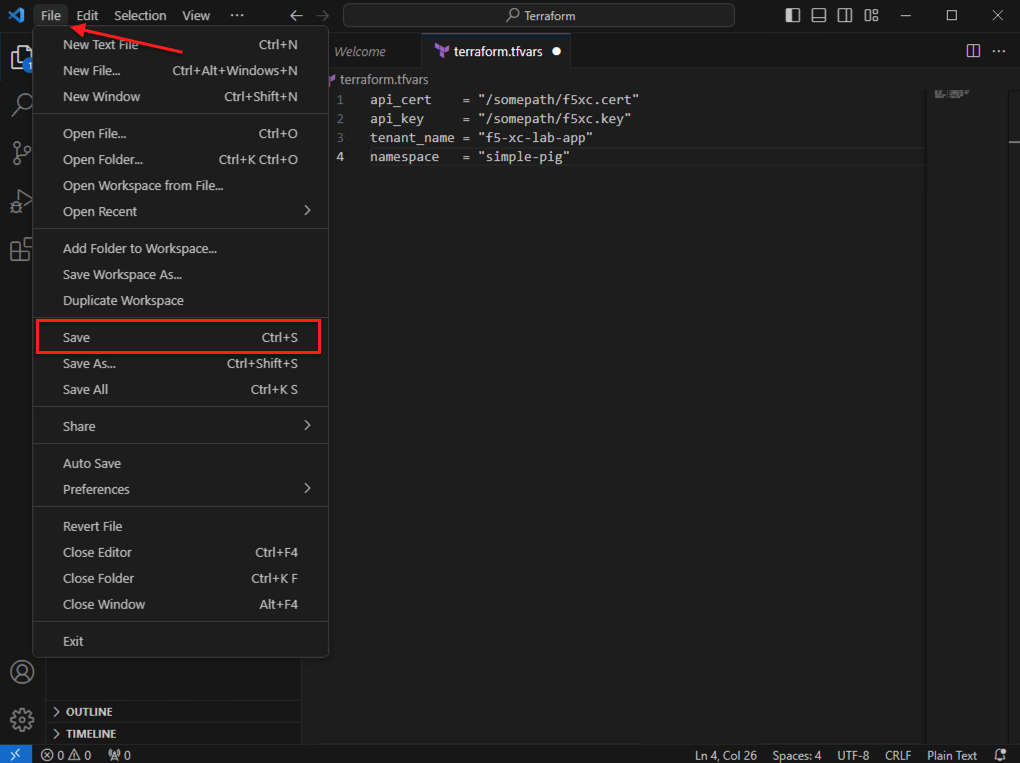
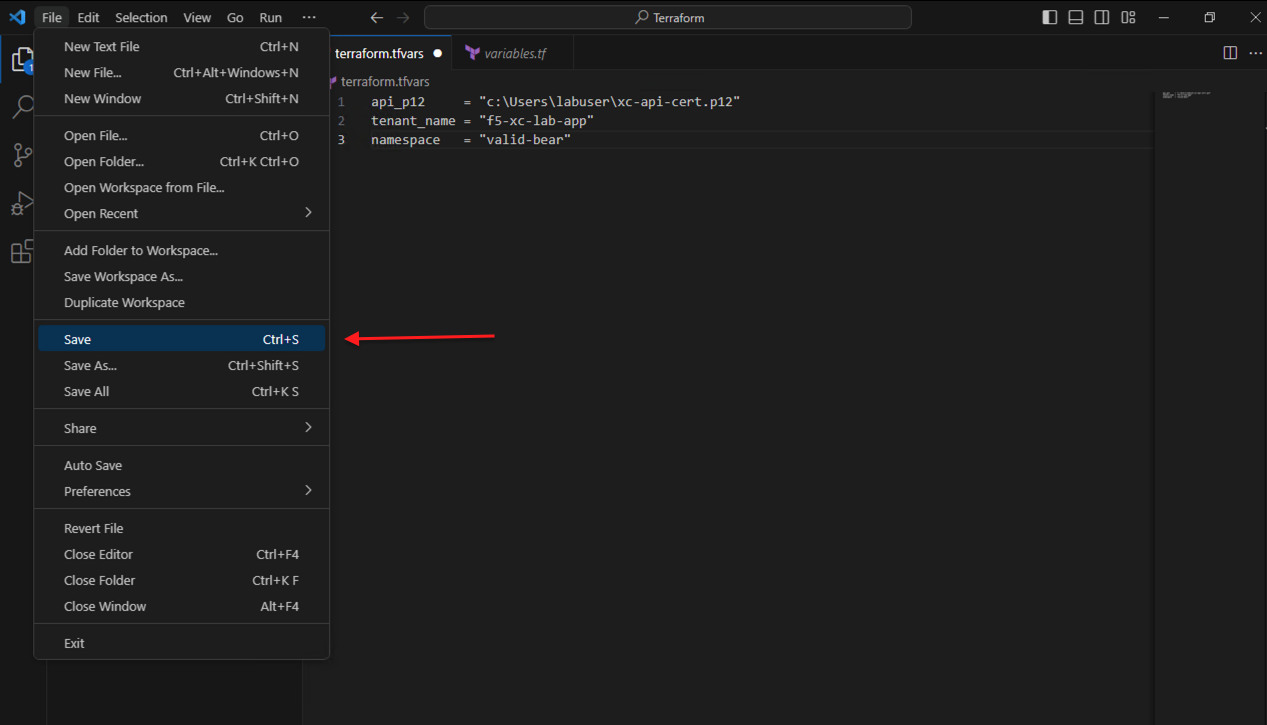
Added to class8 lab3

diff --git a/docs/class8/lab3.rst b/docs/class8/lab3.rst
@@ -54,7 +54,7 @@ This lab will begin back in the Windows 10 client deployed as part of the UDF.
 | 8. Click **Download**.                                                                                        |
 |                                                                                                               |
 | .. note::                                                                                                     |
-|    *Use a password that you will remember for the certificate, if you don't remember your API cert password,  |
+|    *Use a password that you will remember for the certificate, if you don't remember your API cert password,* |
 |                                                                                                               |
 |    *you will need to generate a new API cert.*                                                                |
 +---------------------------------------------------------------------------------------------------------------+
@@ -76,25 +76,31 @@ This lab will begin back in the Windows 10 client deployed as part of the UDF.
 |   copy c:\Users\labuser\Downloads\f5-xc-lab-app.console.ves.volterra.io.api-creds.p12                         |
 |   c:\Users\labuser\xc-api-cert.p12                                                                            |
 |                                                                                                               |
-| 11. Enter your e-mail address in the **Email** form and password in the **Password** form and click **Sign**  |
+| 11. Set an environment variable for the API certificate password with the followind command:                  |
 |                                                                                                               |
-|    **In**.                                                                                                    |
+| .. code-block::                                                                                               |
+|   setx VES_P12_PASSWORD "<some_password>"                                                                     |
+|                                                                                                               |
+| 12. Close the command prompt window.                                                                          |
 +---------------------------------------------------------------------------------------------------------------+
 | |lab3-Terraform_Cmd_Prompt|                                                                                   |
 |                                                                                                               |
-| |lab1-XC_Bookmark|                                                                                            |
+| |lab3-Terraform_Cert_Copy|                                                                                    |
 |                                                                                                               |
-| |lab1-XC_Signin|                                                                                              |
+| |lab3-Terraform_Cert_Password|                                                                                |
 +---------------------------------------------------------------------------------------------------------------+
 
 +---------------------------------------------------------------------------------------------------------------+
-| 1. Double click the **Visual Studio Code** icon on the desktop to launch **Visual Studio Code**.              |
+| 13. Double click the **Visual Studio Code** icon on the desktop to launch **Visual Studio Code**.             |
 |                                                                                                               |
-| 2. When Visual Studio Code launches, click **File** and then **Open Folder...**.                              |
+| 14. When Visual Studio Code launches, click **File** and then **Open Folder...**.                             |
 |                                                                                                               |
-| 3. In the resulting window, paste **C:\Users\labuser\appworld-f5xc-automation\Terraform** into the location   |
+| 15. In the resulting window, paste the below text into the location bar, click the arrow to open that         |
 |                                                                                                               |
-|    bar, click the arrow to open that location, and then click **Select Folder**.                              |
+|    location, and then click **Select Folder**.                                                                |
+|                                                                                                               |
+| .. code-block::                                                                                               |
+|   c:\Users\labuser\appworld-f5xc-automation\Terraform                                                         |
 +---------------------------------------------------------------------------------------------------------------+
 | |lab3-Terraform_VSC|                                                                                          |
 |                                                                                                               |
@@ -104,24 +110,68 @@ This lab will begin back in the Windows 10 client deployed as part of the UDF.
 +---------------------------------------------------------------------------------------------------------------+
 
 +---------------------------------------------------------------------------------------------------------------+
-| 4. From the EXPLORER frame, click the new file icon next to the TERRAFORM folder, and then enter the name     |
+| 16. From the EXPLORER frame, click the new file icon next to the TERRAFORM folder, and then enter the name    |
 |                                                                                                               |
 |    **terraform.tfvars** for the new file that is created and press **Enter**.                                 |
 |                                                                                                               |
-| 5. This will open the **terraform.tfvars file in the right frame of Visual Studio Code, enter the following   |
+| 17. This will open the **terraform.tfvars file in the right frame of Visual Studio Code, enter the following  |
 |                                                                                                               |
-|    values into the file                                                                                       |
+|    values into the file:                                                                                      |
 |                                                                                                               |
-|    api_cert    = "/somepath/f5xc.cert"                                                                        |
-|    api_key     = "/somepath/f5xc.key"                                                                         |
+| .. code-block::                                                                                               |
+|    api_p12     = "c:/Users/labuser/xc-api-cert.p12"                                                           |
 |    tenant_name = "f5-xc-lab-app"                                                                              |
 |    namespace   = "<namespace>"                                                                                |
 |                                                                                                               |
-| 6. Click **File** and **Save** to save the changes you made to the file.                                      |
+| 18. Click **File** and **Save** to save the changes you made to the file.                                     |
 +---------------------------------------------------------------------------------------------------------------+
-| |lab3-Terraform_VSC_tfvars|                                                                                   |
+| |lab3-Terraform_VSC_Tfvars|                                                                                   |
 |                                                                                                               |
-| |lab3-Terraform_VSC_tfvars_values|                                                                            |
+| |lab3-Terraform_VSC_Tfvars_Values|                                                                            |
 |                                                                                                               |
-| |lab3-Terraform_VSC_tfvars_save|                                                                              |
+| |lab3-Terraform_VSC_Tfvars_Save|                                                                              |
++---------------------------------------------------------------------------------------------------------------+
+
++---------------------------------------------------------------------------------------------------------------+
+| 19. From the Visual Studio Code menu bar, click **View**, and then click **Terminal**.                        |
+|                                                                                                               |
+| 20. In the Terminal at the bottom of Visual Studio Code, enter the following command and press enter:         |
+|                                                                                                               |
+| .. code-block::                                                                                               |
+|   terraform init                                                                                              |
+|                                                                                                               |
+| 21. Review the Init Results. You should see a **Terraform has been successfully initialized!** message.       |
+|                                                                                                               |
+|     **DO NOT PROCEED AND ASK A LAB ASSISTNAT FOR HELP IF YOU DON'T SEE THE SUCCESSFULLY INITIALIZED MESSAGE.**|
+|                                                                                                               |
+| 22. In the Terminal enter the following command and press enter:                                              |
+|                                                                                                               |
+| .. code-block::                                                                                               |
+|   terraform plan                                                                                              |
+|                                                                                                               |
+| 23. Review the Plan results. This shows what Terraform is planning to create.                                 |
+|                                                                                                               |
+| 24. In the Terminal enter the following command and press enter:                                              |
+|                                                                                                               |
+| .. code-block::                                                                                               |
+|   terraform apply                                                                                             |
+|                                                                                                               |
+| 25. When prompted **Do you want to perform these actions?** type **yes** and press enter.                     |
+|                                                                                                               |
+| 26. Review the Apply results. This shows what Terraform created.                                              |
+|                                                                                                               |
++---------------------------------------------------------------------------------------------------------------+
+| |lab3-Terraform_VSC_Init|                                                                                     |
+|                                                                                                               |
+| |lab3-Terraform_VSC_Init_Success|                                                                             |
+|                                                                                                               |
+| |lab3-Terraform_VSC_Plan|                                                                                     |
+|                                                                                                               |
+| |lab3-Terraform_VSC_Plan_Results|                                                                             |
+|                                                                                                               |
+| |lab3-Terraform_VSC_Apply|                                                                                    |
+|                                                                                                               |
+| |lab3-Terraform_VSC_Apply_Yes|                                                                                |
+|                                                                                                               |
+| |lab3-Terraform_VSC_Apply_Results|                                                                            |
 +---------------------------------------------------------------------------------------------------------------+
